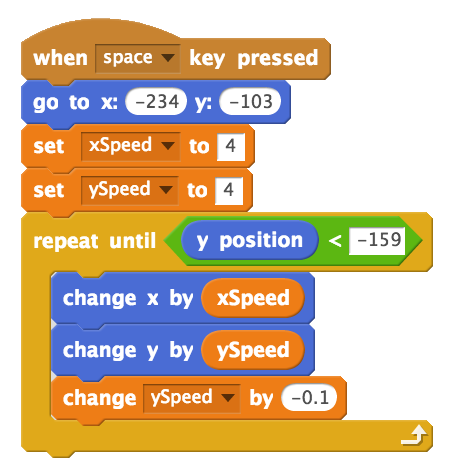
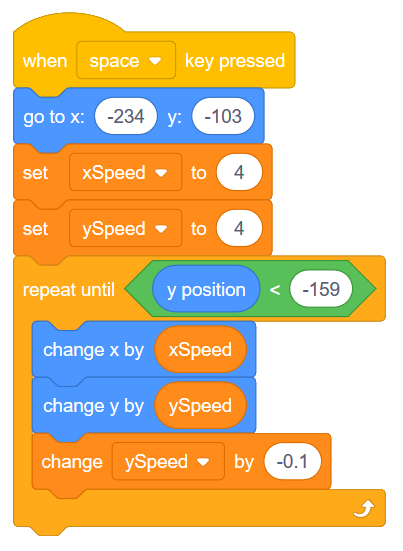
updated section 6 images to scratch 3

diff --git a/_sources/VisualProgrammingEnv/RepeatUntil.rst b/_sources/VisualProgrammingEnv/RepeatUntil.rst
@@ -181,15 +181,21 @@ Cannonball Motion Using Repeat Until
 
 Let's use the repeat until block to create a simulation of a cannonball being shot. First, we need to make a cannonball. To do this, click on the paintbrush beside New sprite (under the stage):
 
-.. image:: images/scratch_paint_new_sprite.png
+.. image:: images/scratch_paint_new_sprite.gif
 
 The process of creating the cannonball sprite is shown in the short animation below. There are a few things you should be aware of:
 
-- using "Convert to vector" before doing any drawing is very important! Do this every time to make sure the quality of your graphics is as high as possible. *Your teacher might decide to go into more depth about the difference between vector and bitmap graphics.*
 - when drawing the circle, you can hold down the shift key to force the ellipse to remain circular.
-- setting the costume center (the last thing done in the animation below) is absolutely necessary! If you neglect to do this, your cannonball will behave in very strange ways (since the calculations about the x and y coordinates of the sprite are based on the costume center point).
+- be sure that your cannonball is **directly** above the center point marker on the canvas (this is easier to see if you zoom in once or twice)
 
 .. image:: images/scratch_paint_cannonball_sprite.gif
+
+.. note::
+
+	In the previous version of Scratch (Scratch 2), you would have needed to:
+
+  - use "Convert to vector" before doing any drawing. *Your teacher might decide to go into more depth about the difference between vector and bitmap graphics.*
+  - set the costume center (since the calculations about the x and y coordinates of the sprite are based on the costume center point).
 
 To create the cannonball simulation, we need some variables to represent the speed at which the cannonball is traveling. Click on the Data tab, and make two variables: **xSpeed** and **ySpeed**. Then create a script that looks like the following:
 

diff --git a/_sources/VisualProgrammingEnv/ExperimentWithRepeat.rst b/_sources/VisualProgrammingEnv/ExperimentWithRepeat.rst
@@ -90,6 +90,9 @@ Drawing Regular Polygons
 
 	To allow your Scratch character to access the Pen tab, you may need to click on the "Add Extensions" button (on the bottom left of the screen), then click on the Pen button.
 
+  .. image:: images/scratch_add_extension.png
+
+
 Every sprite in Scratch has the ability to draw with a virtual pen that they are holding at all times. This allows each sprite to leave a trail that shows where they have walked. In order to do this, you need to use the **pen down** block from the Pen tab, then have your sprite move. Explore this by trying the following:
 
 .. image:: images/scratch_pen_down.png

diff --git a/_sources/VisualProgrammingEnv/StartScreen.rst b/_sources/VisualProgrammingEnv/StartScreen.rst
@@ -40,7 +40,7 @@ Creating A Button Sprite
 
 The first step in creating a start screen is to create buttons. To do this, we will once again paint a new sprite. Begin by clicking the "Paint New Sprite" button:
 
-.. image:: images/scratch_paint_new_sprite.png
+.. image:: images/scratch_paint_new_sprite.gif
 
 Follow the steps below to create your button sprite (if these instructions are not enough for you to understand the process, you should watch the video above):
 
